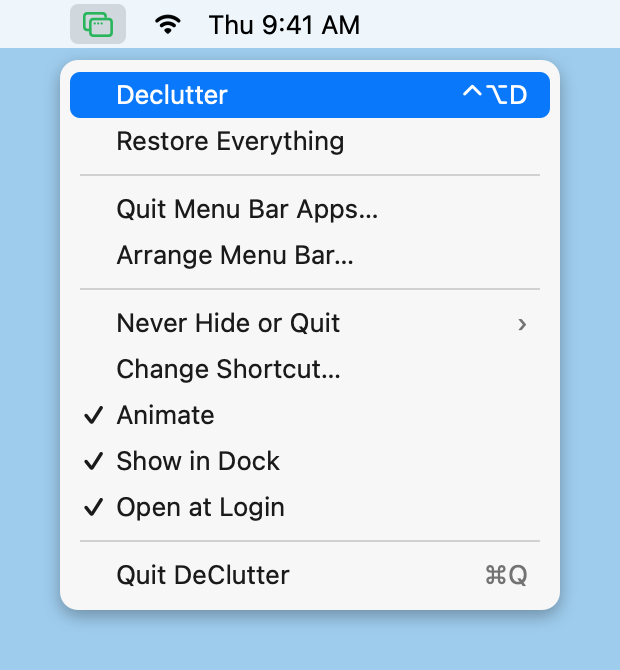
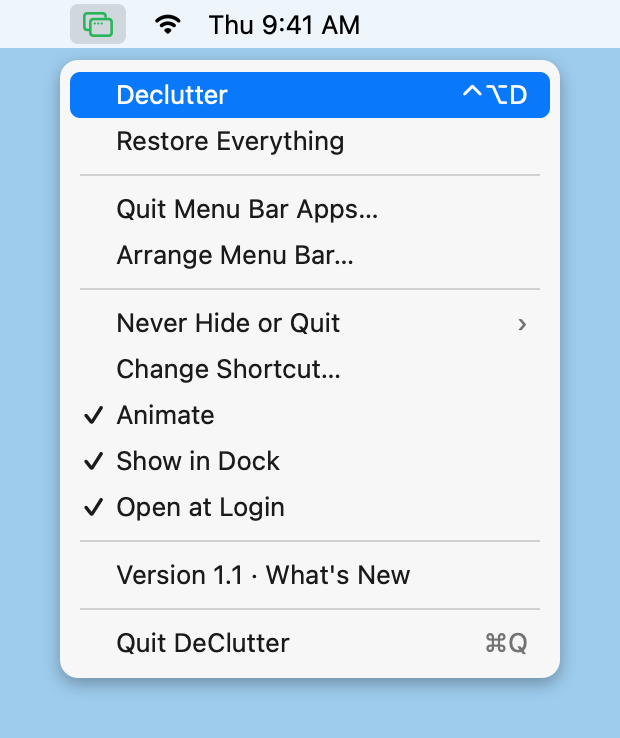
Show the version in the menu, with a link to every version (1.1)
There was no way to tell which version you were running, and DeClutter doesn't update itself, so a
friend on 1.0 couldn't tell a newer one existed. The menu now ends with "Version 1.1 · What's New",
which opens the releases page: every version and what changed, newest first. Version 1.1, build 2.

diff --git a/DeClutter.swift b/DeClutter.swift
@@ -149,6 +149,10 @@ final class DeClutter: NSObject, NSApplicationDelegate {
             defaults.bool(forKey: "showInDock") ? .on : .off
         menu.addItem(withTitle: "Open at Login", action: #selector(toggleLogin), keyEquivalent: "").state =
             SMAppService.mainApp.status == .enabled ? .on : .off
+        menu.addItem(.separator())
+        let version = Bundle.main.object(forInfoDictionaryKey: "CFBundleShortVersionString") as? String ?? "?"
+        menu.addItem(withTitle: "Version \(version) · What's New", action: #selector(openReleases), keyEquivalent: "").toolTip =
+            "Every version and what changed, newest first. DeClutter doesn't update itself, so get newer versions here."
         menu.items.forEach { $0.target = self }
         return menu
     }
@@ -292,6 +296,10 @@ final class DeClutter: NSObject, NSApplicationDelegate {
             }
         }
         defaults.removeObject(forKey: "quitApps")
+    }
+
+    @objc func openReleases() {
+        NSWorkspace.shared.open(URL(string: "https://github.com/danpune/declutter-mac/releases")!)
     }
 
     // macOS 26+ has its own menu bar manager: System Settings > Menu Bar > Allow in the Menu Bar.

diff --git a/docs/make-images.swift b/docs/make-images.swift
@@ -284,7 +284,8 @@ let menuItems: [(String, String, Bool)] = [   // title, shortcut, ticked; "-" is
     ("Declutter", "⌃⌥D", false), ("Restore Everything", "", false), ("-", "", false),
     ("Quit Menu Bar Apps…", "", false), ("Arrange Menu Bar…", "", false), ("-", "", false),
     ("Never Hide or Quit", "›", false), ("Change Shortcut…", "", false), ("Animate", "", true),
-    ("Show in Dock", "", true), ("Open at Login", "", true), ("-", "", false), ("Quit DeClutter", "⌘Q", false)]
+    ("Show in Dock", "", true), ("Open at Login", "", true), ("-", "", false),
+    ("Version 1.1 · What's New", "", false), ("-", "", false), ("Quit DeClutter", "⌘Q", false)]
 let rowH: CGFloat = 23, sepH: CGFloat = 11, menuW: CGFloat = 250
 let menuH = menuItems.reduce(CGFloat(12)) { $0 + ($1.0 == "-" ? sepH : rowH) }
 let menuSize = CGSize(width: menuW + 60, height: menuH + 60)

diff --git a/README.md b/README.md
@@ -41,6 +41,7 @@ into a green ↩ arrow.
 | **Change Shortcut…** | Press any combination with ⌘, ⌃ or ⌥. A global shortcut takes that key from every other app, so pick one you don't use elsewhere. |
 | **Animate** | On: windows shrink into the Dock (needs the Accessibility permission). Off: apps hide instantly, no permission needed. |
 | **Show in Dock**, **Open at Login** | On by default. The Dock icon is handy on MacBooks whose notch hides some menu bar icons. |
+| **Version · What's New** | Which version you have. Click it for every version and what changed; DeClutter doesn't update itself, so newer versions are downloaded from there. |
 
 Quitting DeClutter while the screen is clear brings everything back first, so nothing is ever left stranded.
 
